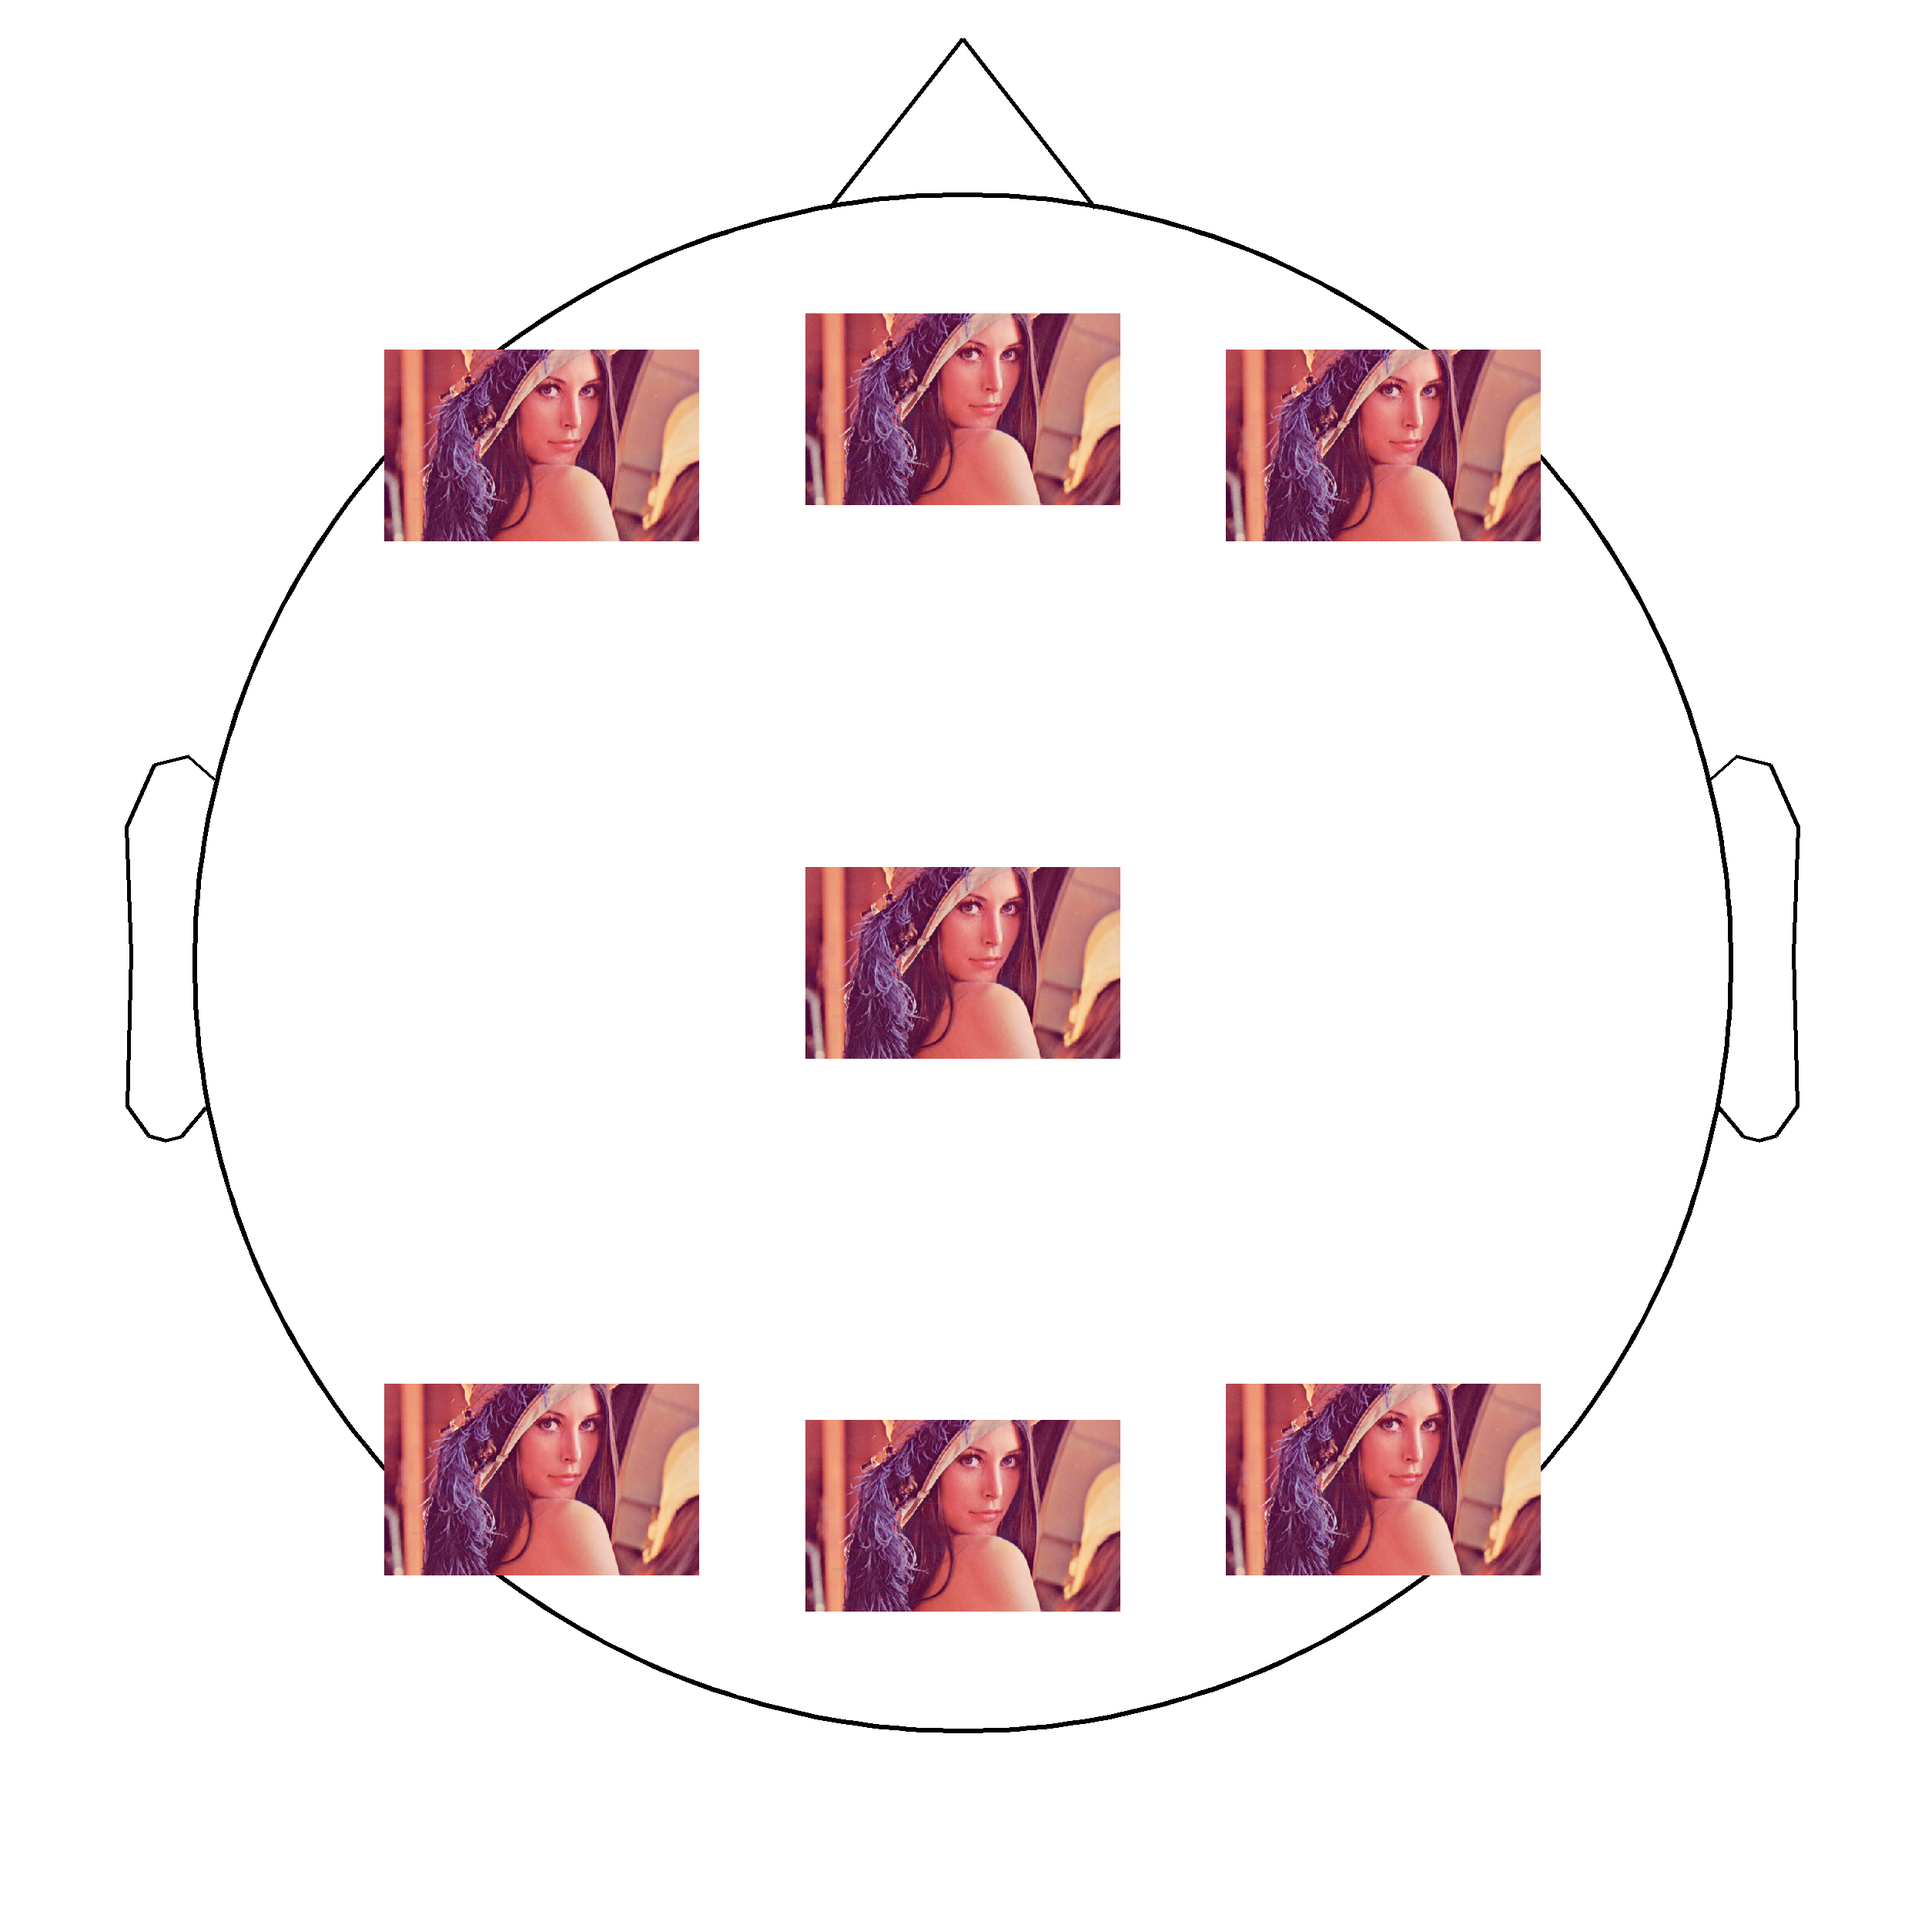
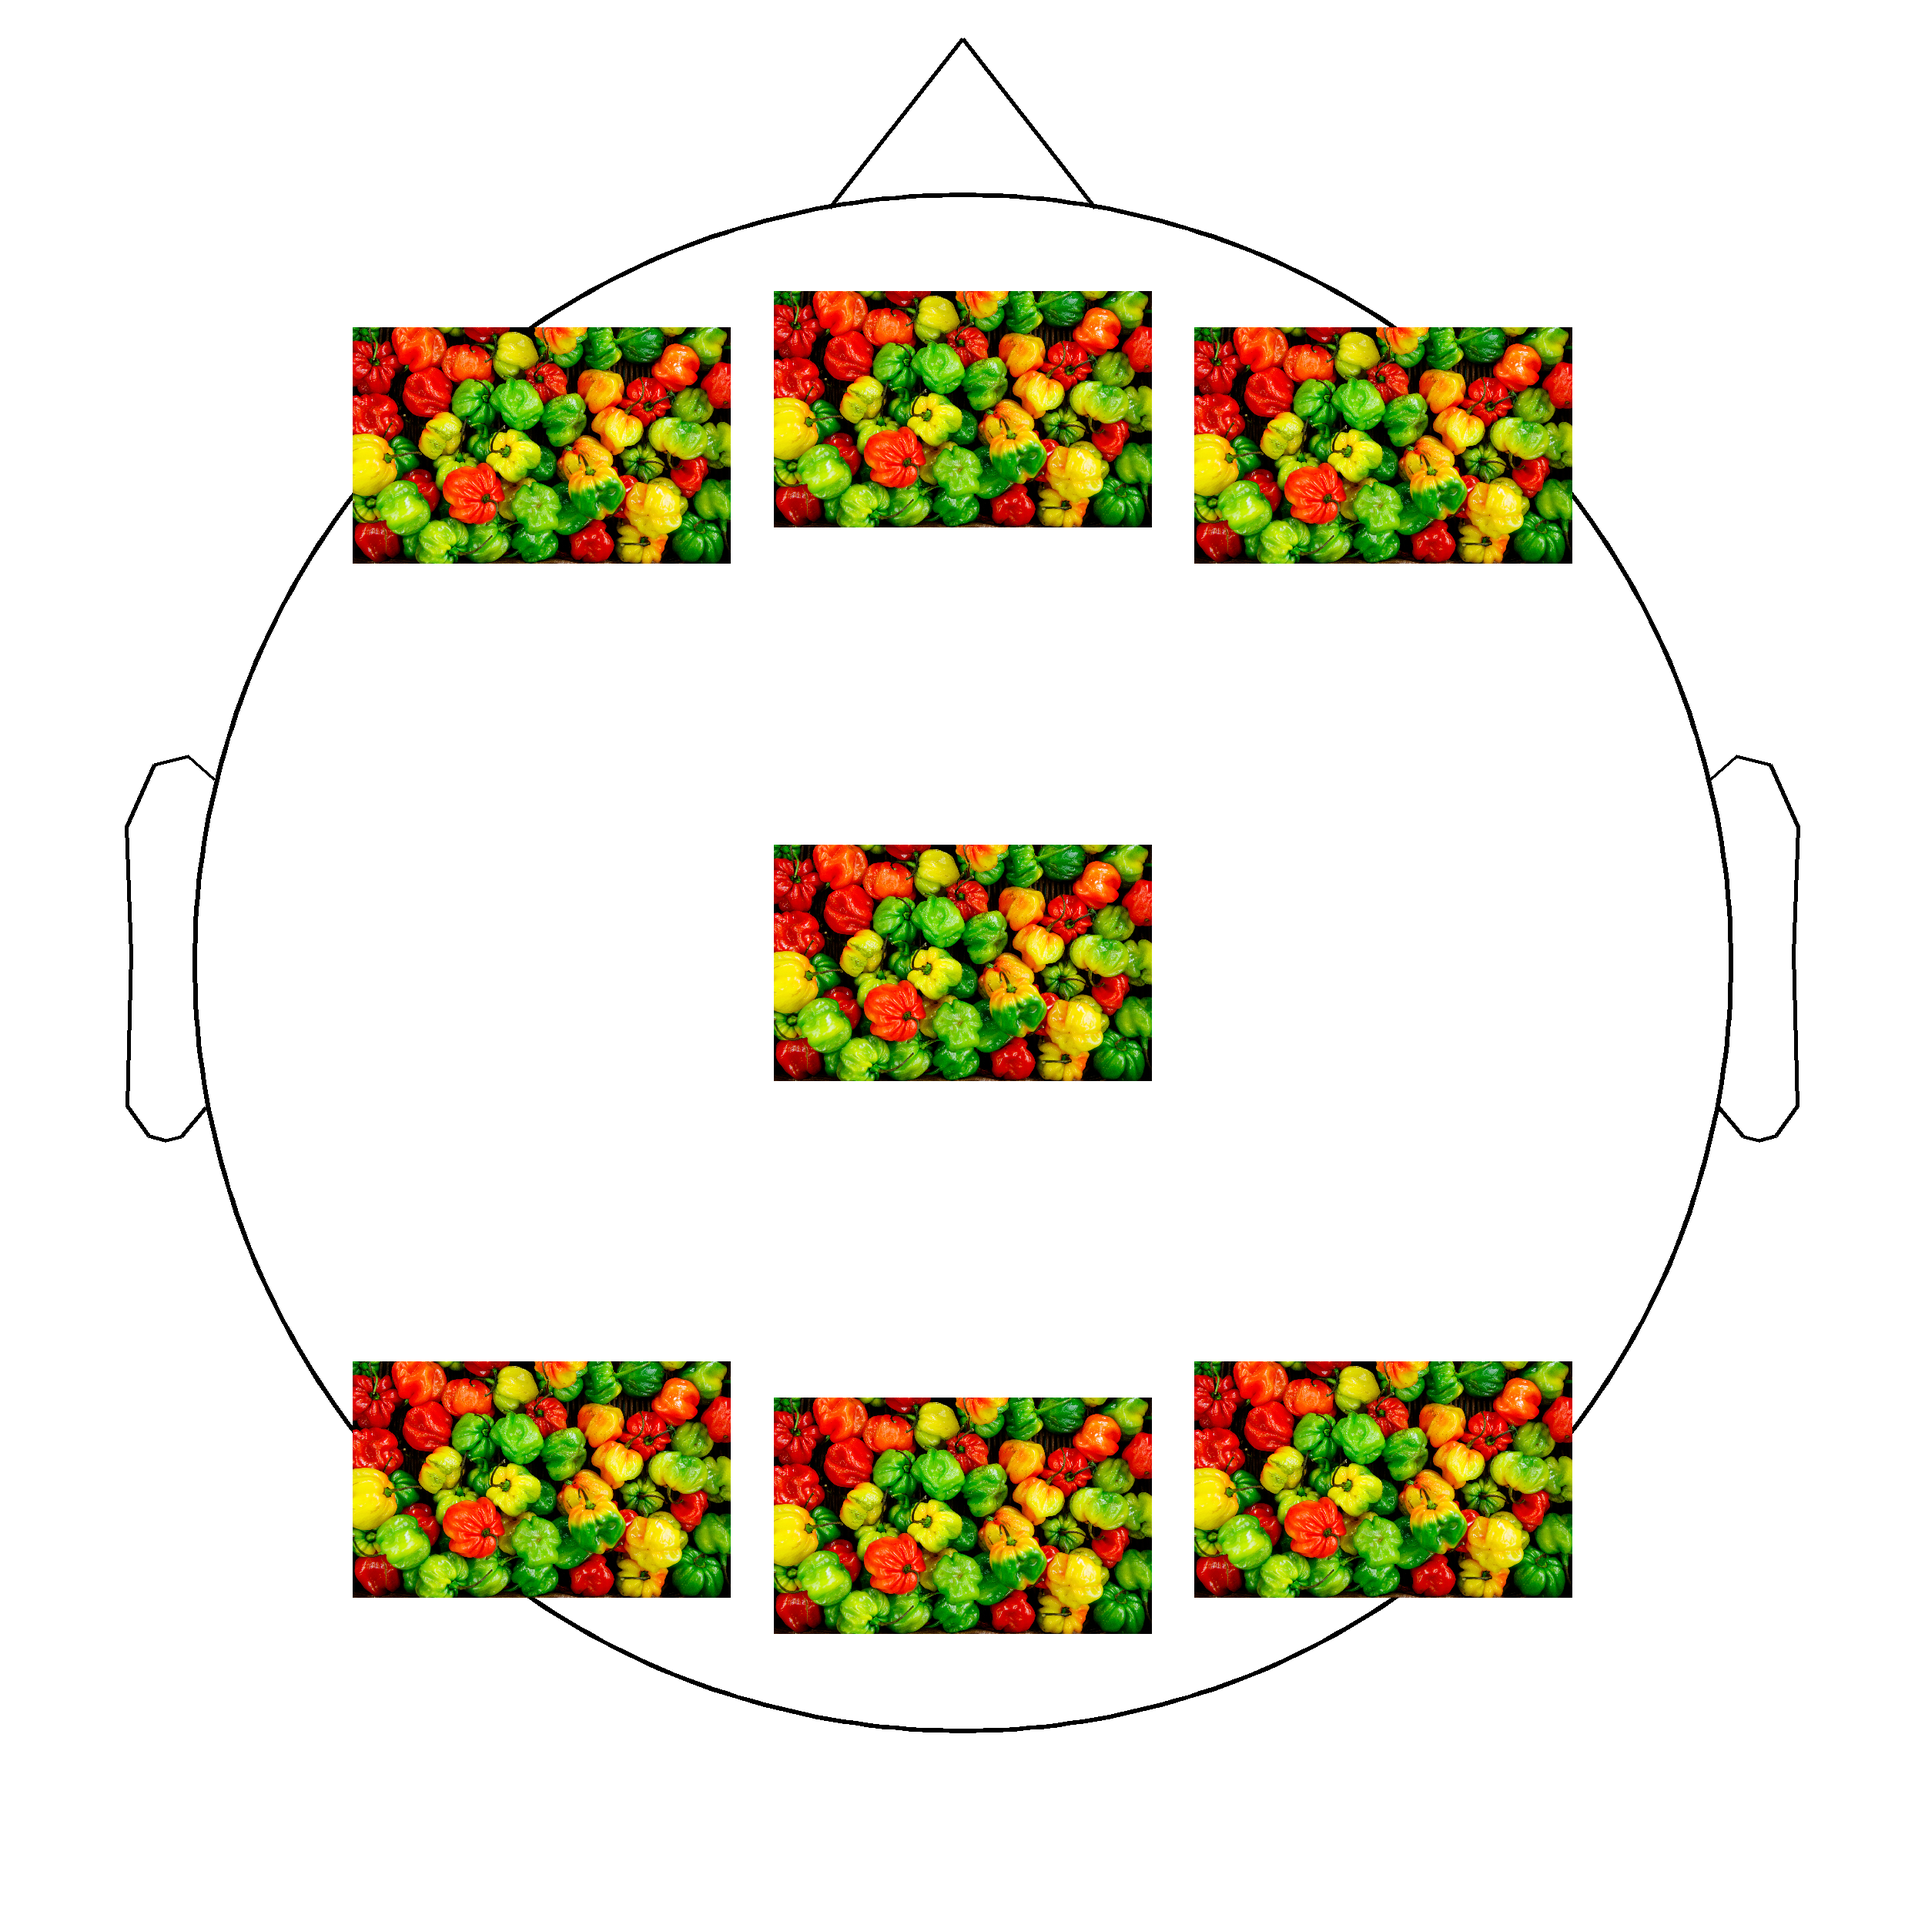
Peppers photo used in example

Changed region(s): [[0.156, 0.6864, 0.8424, 0.8736], [0.156, 0.1248, 0.8424, 0.312], [0.3744, 0.4368, 0.624, 0.5616]]

diff --git a/main.py b/main.py
@@ -12,10 +12,10 @@ import topoplot_tools as topo
 
 # Parameters
 head_radius       = 1000                      # In pixels
-scale_images      = 0.8                       # Scale applied to images 
+scale_images      = 0.1                       # Scale applied to images 
 crop_images       = [0, 200, 0, 0] # L U R D  # Images crop in pixels, L U R D 
-image_filenames   = [r'./lena.png', r'./lena.png', r'./lena.png', r'./lena.png', 
-                     r'./lena.png', r'./lena.png', r'./lena.png'] 
+image_filenames   = [r'./peppers.jpg', r'./peppers.jpg', r'./peppers.jpg', r'./peppers.jpg', 
+                     r'./peppers.jpg', r'./peppers.jpg', r'./peppers.jpg'] 
 
 # Using Sperical coordinates
 position_filename = r'./spherical_coords.sph'

diff --git a/README.md b/README.md
@@ -5,5 +5,7 @@ Requirements:
 Numpy
 PIL, Python Imaging Library
 
+Peppers photo by [Martin Adams](https://unsplash.com/@martinadams?utm_source=unsplash&utm_medium=referral&utm_content=creditCopyText) on [Unsplash](https://unsplash.com/s/photos/mexico-pepper?utm_source=unsplash&utm_medium=referral&utm_content=creditCopyText)
+
 Example:
-![Lena topoplot](spherical_coords.png)
+![Peppers in topoplot](spherical_coords.png)
